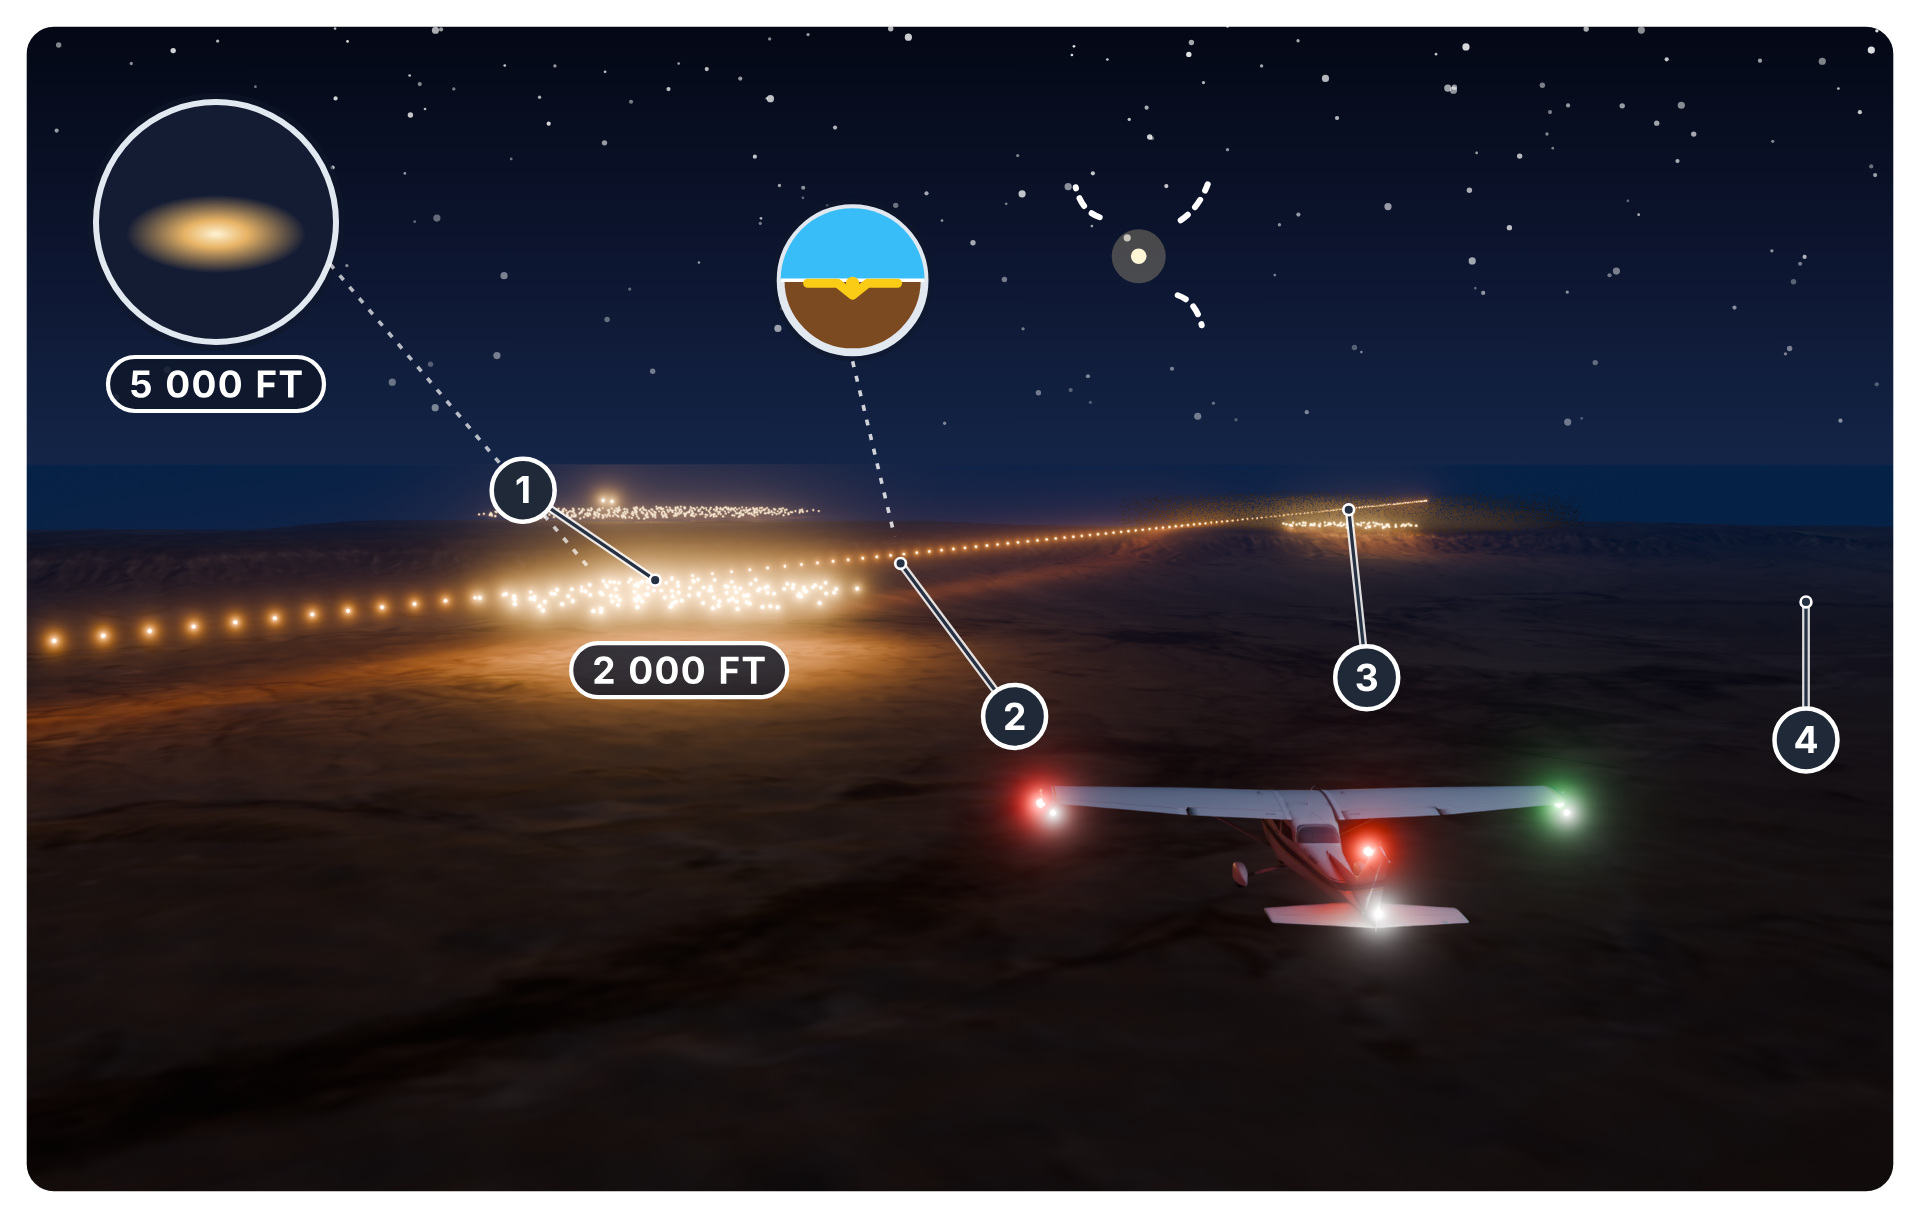
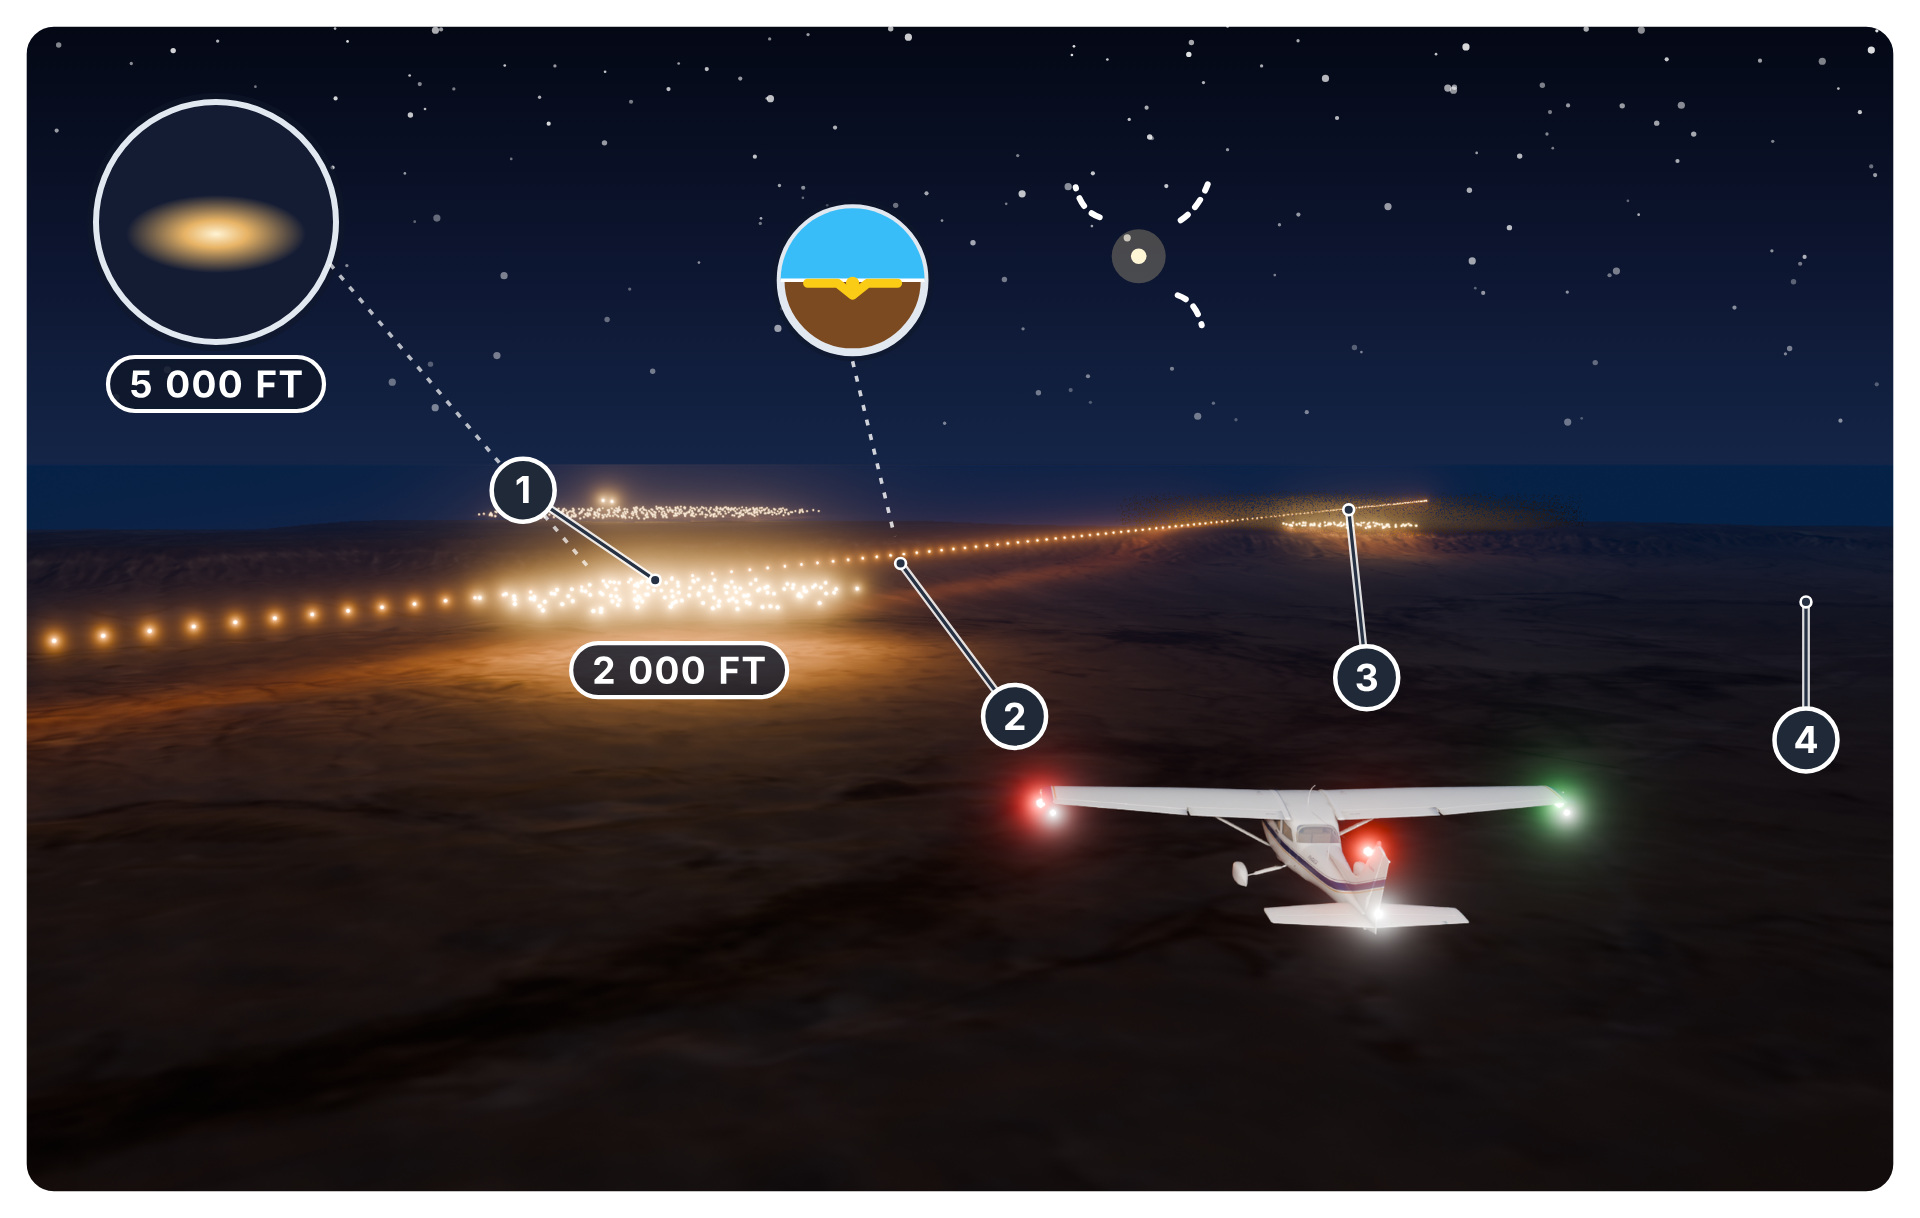
3D pilots: 31-10 with a camera flash on the aeroplane; the two scenes of Figure 2-4 (a cumulus in the box of its clearances; a graded generic aerodrome under a low ceiling)
render_oeth.py: clouds get the library's volume bounces; clearance boxes round scene clouds;
area lights aimed at a point; graded aerodromes (pavements and paint level at the highest
ground under them); ground_z passes through clouds, fog and lights.

Claude-Session: https://claude.ai/code/session_01GaKzbGvzg6oJZTLUkbk9TR

Changed region(s): [[0.5312, 0.624, 0.8125, 0.78]]

diff --git a/09_book_figures/handbook/figs/oeth3d.py b/09_book_figures/handbook/figs/oeth3d.py
@@ -766,11 +766,81 @@ def night_31_10():
         "fogs": [{"center": [round(fog_c[0], 1), round(fog_c[1], 1)], "size": [2200.0, 2200.0, 220.0], "density": 0.0016, "colour": "#AEB8D4", "noise": 2.5}],
         "haze": {"start": 2000.0, "depth": 14000.0, "colour": "#1E2846", "strength": 0.95, "glare": {"threshold": 0.8, "strength": 1.0, "size": 0.6, "size_steps": 8}},
         "aircraft": [{"at": list(ac), "heading": hd, "scale": s}],
-        "spots": [{"at": [ac[0] - fx * 40.0 + rx * 30.0, ac[1] - fy * 40.0 + ry * 30.0, ac[2] + 45.0], "look": list(ac), "power": 9000.0, "size": 25.0, "colour": "#BFD0FF"}],
+        # a flash from the camera (the aeroplane lit as in a photograph taken with a flash, so that it reads clearly against the night), and a weaker
+        # cool moonlit key from above and to the right that gives it shape; both small enough at the distance of the ground to leave it dark
+        "spots": [{"at": [ac[0] - fx * 70.0 - rx * 18.0, ac[1] - fy * 70.0 - ry * 18.0, ac[2] + 24.0], "look": list(ac), "power": 60000.0, "size": 4.0, "colour": "#FFF6EA"},
+                  {"at": [ac[0] - fx * 40.0 + rx * 30.0, ac[1] - fy * 40.0 + ry * 30.0, ac[2] + 45.0], "look": list(ac), "power": 12000.0, "size": 25.0, "colour": "#BFD0FF"}],
         "anchors": {"town_near": [round(c, 1) for c in pt(4200.0, -900.0)], "town_far": [round(c, 1) for c in pt(11500.0, -2600.0)], "road": [round(c, 1) for c in pt(6000.0, -300.0)],
                     "fog": [round(c, 1) for c in fog_c], "dark": [round(c, 1) for c in pt(5000.0, 3200.0)],
                     "ac": list(ac), "hz": [round(ac[0] + fx * 400000.0, 1), round(ac[1] + fy * 400000.0, 1), 0.0], "n0": [0.0, 0.0, 0.0], "n1": [0.0, 4000.0, 0.0]},
     }
+
+
+def _day_3d(rid, camera, size, extra, ac=None, ac_scale=10.0, ac_heading=90.0, flash=8000.0):
+    """A day scene of the second design pass: the open picture of the desert east of Thumamah on its relief, the C172 sky, a high sun, haze, outlines on
+    the aeroplane and a soft flash from the camera on it (so that it reads as clearly as the ground and the clouds)."""
+    r = {"id": rid, "camera": camera, "size": size, "samples": 128, "exposure": -0.1, "look": "AgX - Medium High Contrast",
+         "sun": {"elevation": 55, "azimuth": 140, "energy": 3.4, "sky": 0.9}, "keep_sources": ["srtm"], "ground_image": ground_texture(),
+         "far_ground_size": 3000000, "clip_end": 2000000, "haze": {"start": 3000.0, "depth": 26000.0, "colour": "#E8E4DC", "strength": 0.55},
+         "ink": {"thickness": 0.9, "colour": "#1F2937"}, "anchors": {}}
+    if ac:
+        r["aircraft"] = [{"at": list(ac), "heading": ac_heading, "scale": ac_scale}]
+        c = camera["at"]
+        d = math.dist(c, ac)                                   # (the light falls off with the square of the distance: about the sun's light on the aeroplane again)
+        r["spots"] = [{"at": [c[0], c[1], c[2] + 10.0], "look": list(ac), "power": round(flash / 8000.0 * 6.0 * d * d), "size": 6.0, "colour": "#FFF8EE"}]
+        r["anchors"]["ac"] = list(ac)
+    anchors = extra.pop("anchors", {})
+    r.update(extra)
+    r["anchors"].update(anchors)
+    return r
+
+
+def vfr_2_04_cloud():
+    """Figure 2-4, upper view: a cumulus over the desert east of Thumamah, its base about 5 000 ft above the ground, inside a glass box of the distances to
+    keep from it below 10 000 ft MSL (500 ft below, 1 000 ft above, 2 000 ft all round: GACAR 91.165, as the chapter gives them), and the aeroplane
+    (enlarged 10 times) flying past outside the box."""
+    cx, cy, base = 9000.0, 1500.0, 1500.0
+    ac = (cx - 2700.0, cy - 3600.0, base + 380.0)
+    return _day_3d("vfr-2-04-cloud", {"at": [cx - 2300.0, cy - 7600.0, base + 450.0], "look": [cx + 200.0, cy, base + 420.0], "lens": 30}, [2400, 1000],
+                   {"transparent": True, "haze": {"start": 9000.0, "depth": 30000.0, "colour": "#E8E4DC", "strength": 0.5},
+                    "sun": {"elevation": 50, "azimuth": 200, "energy": 3.6, "sky": 0.9},
+                    "clouds": [{"kind": "cumulus", "seed": 3, "width": 9.0, "height": 4.0, "floor": True, "voxel": 0.0065, "at": [cx, cy, base], "scale": 230.0, "density": 600.0,
+                                "clearance": {"side": 610.0, "above": 305.0, "below": 152.0, "colour": "#2563EB", "alpha": 0.10, "edge": 5.0}}],
+                    "anchors": {"top": {"object": "air clear0", "at": [0.5, 0.0, 1.0]}, "bottom": {"object": "air clear0", "at": [0.5, 0.0, 0.0]},
+                                "left": {"object": "air clear0", "at": [0.0, 0.0, 0.5]}, "left_far": {"object": "air clear0", "at": [0.0, 1.0, 0.5]},
+                                "front_left_top": {"object": "air clear0", "at": [0.0, 0.0, 1.0]}, "front_right_top": {"object": "air clear0", "at": [1.0, 0.0, 1.0]},
+                                "front_left_bottom": {"object": "air clear0", "at": [0.0, 0.0, 0.0]}, "cloud": {"object": "cloud0p0", "at": [0.5, 0.5, 0.6]},
+                                "cloud_top": {"object": "cloud0p0", "at": [0.5, 0.0, 1.0]}, "cloud_base": {"object": "cloud0p0", "at": [0.5, 0.0, 0.0]},
+                                "cloud_left": {"object": "cloud0p0", "at": [0.0, 0.0, 0.5]}}},
+                   ac=ac, ac_scale=34.0, ac_heading=75.0)
+
+
+def vfr_2_04_ceiling():
+    """Figure 2-4, lower view: a generic aerodrome (a runway, an apron, a tower; not any real one) on the desert east of Thumamah under a layer of
+    stratus whose base is below 1 000 ft above the ground, and, away from it, the aeroplane (enlarged 6 times) low over the desert, clear of the cloud."""
+    rx0, ry0, hd = 12500.0, -2500.0, 80.0
+    ux, uy = math.sin(math.radians(hd)), math.cos(math.radians(hd))
+    nx, ny = uy, -ux
+    L, Wd = 1800.0, 45.0
+    rect = lambda s0, s1, t0, t1: [[round(rx0 + ux * s + nx * t, 1), round(ry0 + uy * s + ny * t, 1)] for s, t in ((s0, t0), (s1, t0), (s1, t1), (s0, t1))]
+    plan = {"pavements": [{"name": "rwy", "zone": "runway", "ring": rect(-L / 2, L / 2, -Wd / 2, Wd / 2), "holes": [], "lift": 0.3},
+                          {"name": "twy", "zone": "taxi", "ring": rect(-60.0, -40.0, Wd / 2, 140.0), "holes": [], "lift": 0.25},
+                          {"name": "apron", "zone": "apron", "ring": rect(-160.0, 60.0, 140.0, 260.0), "holes": [], "lift": 0.25}],
+            "marks": [{"ring": rect(s, s + 30.0, -0.5, 0.5), "colour": "#FFFFFF", "lift": 0.55} for s in [-L / 2 + 120.0 + 60.0 * k for k in range(26)]]
+                     + [{"ring": rect(e - 30.0, e, -19.5 + 5.0 * k, -17.0 + 5.0 * k), "colour": "#FFFFFF", "lift": 0.55} for e in (-L / 2 + 36.0, L / 2 - 6.0) for k in range(8)]
+                     + [{"ring": rect(-L / 2 + 6.0, L / 2 - 6.0, side - 0.6, side + 0.6), "colour": "#FFFFFF", "lift": 0.55} for side in (-Wd / 2 + 1.5, Wd / 2 - 1.5)],
+            "grade": True,
+            "blocks": [{"ring": rect(-110.0, -96.0, 270.0, 284.0), "height": 22.0, "colour": "#CBD5E1"}, {"ring": rect(-60.0, 40.0, 275.0, 305.0), "height": 9.0, "colour": "#E2E8F0"}]}
+    back = L / 2 + 520.0                                  # the camera on the extended centreline, short of the threshold, under the ceiling
+    cam = [round(rx0 - ux * back + nx * 40.0, 1), round(ry0 - uy * back + ny * 40.0, 1), 170.0]
+    ac = (round(rx0 - ux * (back - 420.0) - nx * 160.0, 1), round(ry0 - uy * (back - 420.0) - ny * 160.0, 1), 182.0)
+    return _day_3d("vfr-2-04-ceiling", {"at": cam, "look": [rx0 - ux * 300.0, ry0 - uy * 300.0, 0.0], "lens": 26}, [2400, 1000],
+                   {"plan": plan, "sun": {"elevation": 55, "azimuth": 140, "energy": 1.6, "sky": 0.8}, "exposure": 0.15,
+                    "haze": {"start": 2500.0, "depth": 14000.0, "colour": "#D6D9DE", "strength": 0.6},
+                    "clouds": [{"kind": "stratus", "seed": 6, "width": 18.0, "height": 0.6, "depth": 6.0, "density": 40.0, "erode": [0.30, 0.6], "ragged": 0.6, "gaps": [0.35, 0.6],
+                                "gap_floor": 0.40, "taper": 8.0, "end_fade": 0.25, "absorb": 0.0, "absorb_white": 1.0, "at": [rx0 - 200.0, ry0 + 1500.0, 230.0], "scale": 900.0, "heading": 70.0}],
+                    "anchors": {"deck": [rx0 + ux * 600.0, ry0 + uy * 600.0, 235.0], "rwy": [rx0, ry0], "thr": [round(rx0 - ux * L / 2, 1), round(ry0 - uy * L / 2, 1)], "tower": [round(c, 1) for c in rect(-110.0, -96.0, 270.0, 284.0)[0]]}},
+                   ac=ac, ac_scale=2.2, ac_heading=hd + 35.0)
 
 
 def backdrop_side():
@@ -790,6 +860,8 @@ def backdrop_plan():
 
 
 RECIPES = {
+    "vfr-2-04-cloud": vfr_2_04_cloud,
+    "vfr-2-04-ceiling": vfr_2_04_ceiling,
     "night-31-10": night_31_10,
     "backdrop-side-desert": backdrop_side,
     "backdrop-plan-desert": backdrop_plan,

diff --git a/09_book_figures/blender/render_oeth.py b/09_book_figures/blender/render_oeth.py
@@ -153,7 +153,7 @@ def ground_z(x, y):
         hit, loc, _n, _i, ob, _m = bpy.context.scene.ray_cast(bpy.context.evaluated_depsgraph_get(), origin, Vector((0, 0, -1)))
         if not hit:
             return 0.0
-        if not ob.name.startswith(("air ", "edge ", "path")):
+        if not ob.name.startswith(("air ", "edge ", "path", "cloud", "fog", "lamps", "spot")):
             return loc.z
         origin = loc - Vector((0, 0, 0.01))
     return 0.0
@@ -553,6 +553,16 @@ def scene_clouds(items):
         root.location = Vector(c["at"])
         root.scale = (scale, scale, scale)
         root.rotation_euler = (0.0, 0.0, math.radians(-c.get("heading", 0.0)))
+        if c.get("clearance"):                            # the distances to keep from the cloud: a glass box round its bounds (above, below, all round)
+            bpy.context.view_layer.update()
+            pts = [o.matrix_world @ Vector(corner) for o in bpy.data.objects if o.parent is root for corner in o.bound_box]
+            xs, ys, zs = [p.x for p in pts], [p.y for p in pts], [p.z for p in pts]
+            cl = c["clearance"]
+            sd = cl.get("side", 610.0)
+            x0, x1, y0, y1 = min(xs) - sd, max(xs) + sd, min(ys) - sd, max(ys) + sd
+            volumes([{"name": f"clear{ci}", "ring": [[x0, y0], [x1, y0], [x1, y1], [x0, y1]], "floor": min(zs) - cl.get("below", 152.0), "ceiling": max(zs) + cl.get("above", 305.0),
+                      "colour": cl.get("colour", "#2563EB"), "alpha": cl.get("alpha", 0.12), "edge": cl.get("edge", 6.0), "corner_edges": True}])
+            print("clearance", ci, [round(v) for v in (x0, x1, y0, y1, min(zs), max(zs))])
 
 
 def lay_plan(plan):
@@ -562,8 +572,15 @@ def lay_plan(plan):
     walls = bpy.data.materials["walls"]
     roof = flat_material("roof", "#F4F1EA")
     rwy = bpy.data.materials["asphalt"]
+    gz = None
+    if plan.get("grade"):                                  # a graded aerodrome: its pavements and paint level, at the highest ground under them
+        xs = [x for p in plan.get("pavements", []) for x, _ in p["ring"]]
+        ys = [y for p in plan.get("pavements", []) for _, y in p["ring"]]
+        step = plan.get("grade_step", 40.0)
+        gz = max(ground_z(x0 + i * step, y0 + j * step) for x0, y0 in [(min(xs), min(ys))]
+                 for i in range(int((max(xs) - min(xs)) / step) + 1) for j in range(int((max(ys) - min(ys)) / step) + 1))
     for p in plan.get("pavements", []):
-        flat_poly("plan " + p["name"], [p["ring"], *p.get("holes", [])], 0.30, {"apron": apron, "runway": rwy}.get(p["zone"], twy))
+        flat_poly("plan " + p["name"], [p["ring"], *p.get("holes", [])], p.get("lift", 0.30), {"apron": apron, "runway": rwy}.get(p["zone"], twy), z=gz)
     for i, p in enumerate(plan.get("islands", [])):
         flat_poly(f"plan island {i}", [p["ring"]], 0.45, island)
     for b in plan.get("buildings", []):
@@ -573,7 +590,7 @@ def lay_plan(plan):
         build(f"plan block {i}", bl["ring"], bl["height"], mat, mat)
     for i, mk in enumerate(plan.get("marks", [])):        # paint: flat shapes of one colour (chevrons, holding lines), a little above the pavement
         mat = bpy.data.materials.get("paint_" + mk["colour"]) or flat_material("paint_" + mk["colour"], mk["colour"], emission=0.25)
-        flat_poly(f"plan mark {i}", [mk["ring"]], 0.55, mat)
+        flat_poly(f"plan mark {i}", [mk["ring"]], mk.get("lift", 0.55), mat, z=gz)
     for i, rd in enumerate(plan.get("roads", [])):
         pts, w = rd["points"], rd.get("width", 8.0) / 2.0
         for j, (a, c) in enumerate(zip(pts, pts[1:])):
@@ -801,6 +818,9 @@ def main():
         fogs(r["fogs"])
     if "clouds" in r:
         scene_clouds(r["clouds"])
+        sc.cycles.volume_bounces = r.get("volume_bounces", 12)     # (as the cloud library: light scattered many times inside the cloud is what makes it white)
+        sc.cycles.max_bounces = max(sc.cycles.max_bounces, 16)
+        sc.cycles.transparent_max_bounces = max(sc.cycles.transparent_max_bounces, 16)
     for i, sp in enumerate(r.get("spots", [])):         # area lights aimed at a point (a soft key on the aeroplane at night)
         ld = bpy.data.lights.new(f"spot{i}", "AREA")
         ld.energy = sp.get("power", 2000.0)
